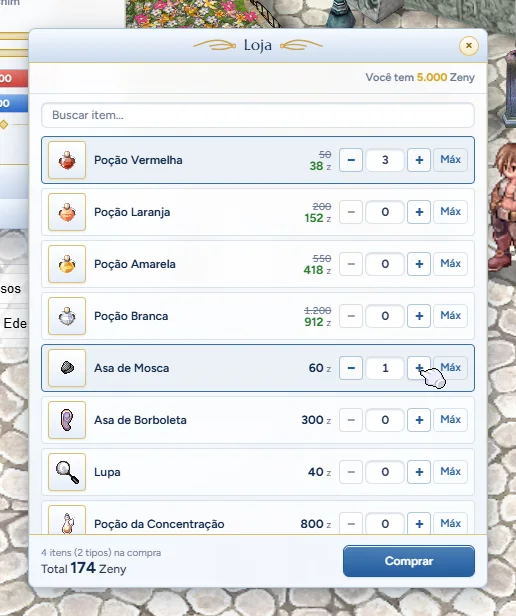
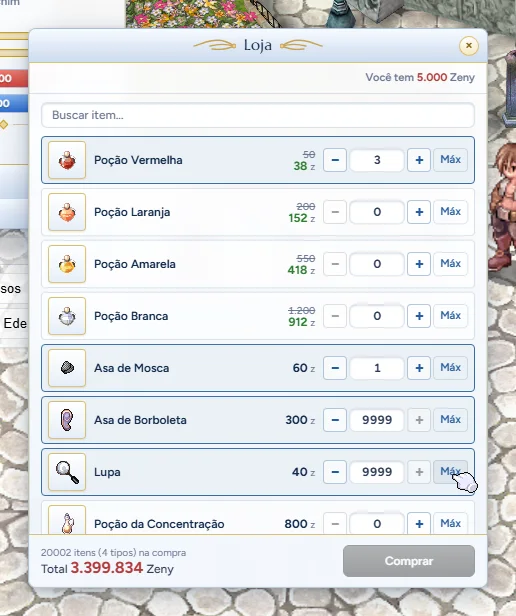
loja: o campo de quantidade cortava o numero (foto do dono, 01/09)
'100' saia como '10(': o campo tinha 40px TOTAIS e herdava o padding
horizontal de .ri-input (--sp-5, 10px de cada lado) — sobravam 18px de
conteudo, menos de 3 digitos. Agora sao 56px com padding proprio de 4px:
~46px uteis, que cobrem o teto de 9999 da loja de estoque infinito e os 5
digitos de uma pilha cheia do inventario na venda.

A maquina de fotos ganhou o PIOR CASO junto (o que a foto anterior nao
exercitava): clicar 'Max' numa loja infinita e digitar 5 digitos num campo.
Provado: 9999 cabe com folga, e o valor digitado alem do teto e limitado
como deve.

diff --git a/src/UI/Components/NpcStore/NpcStoreV2/NpcStoreV2.css b/src/UI/Components/NpcStore/NpcStoreV2/NpcStoreV2.css
@@ -274,10 +274,16 @@
 	cursor: default;
 }
 
+/* 56px e padding horizontal PROPRIO (o --sp-5 de .ri-input comia 20px dos
+   40 originais e sobravam 18px de conteudo — menos de 3 digitos, e "100"
+   saia cortado como "10(", visto na foto do dono em 01/09). Agora sobram
+   ~46px: cabe o teto de 9999 da loja infinita e os 5 digitos de uma pilha
+   cheia do inventario na venda. */
 .ns-qtd-in {
-	width: 40px;
+	width: 56px;
 	height: 24px;
 	box-sizing: border-box;
+	padding: 0 var(--sp-2);
 	text-align: center;
 	font: var(--type-numeric);
 	font-variant-numeric: tabular-nums;
